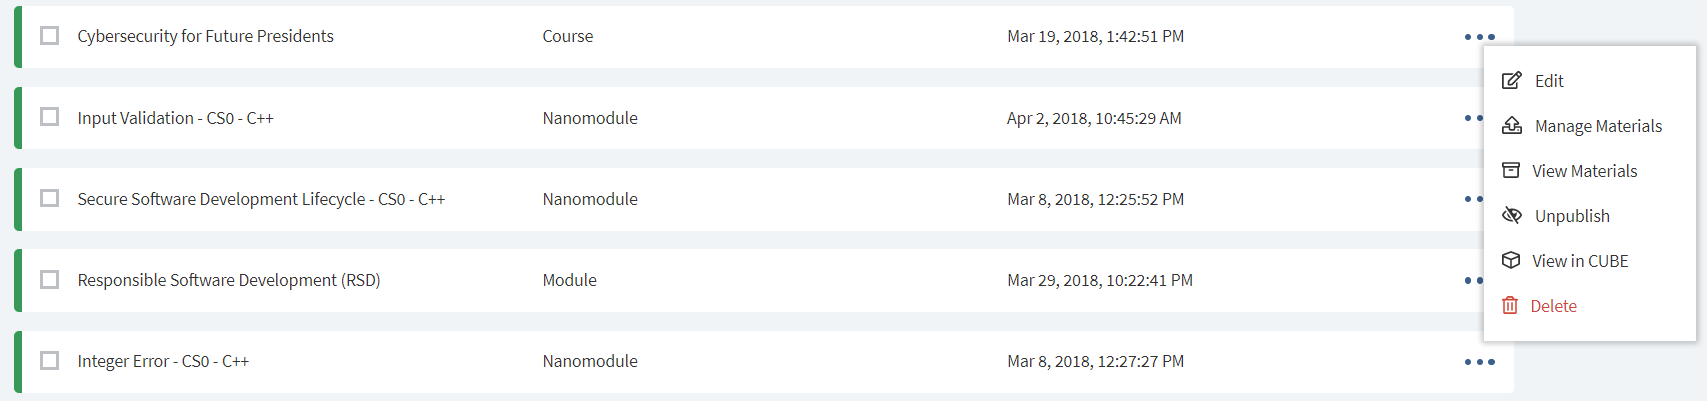
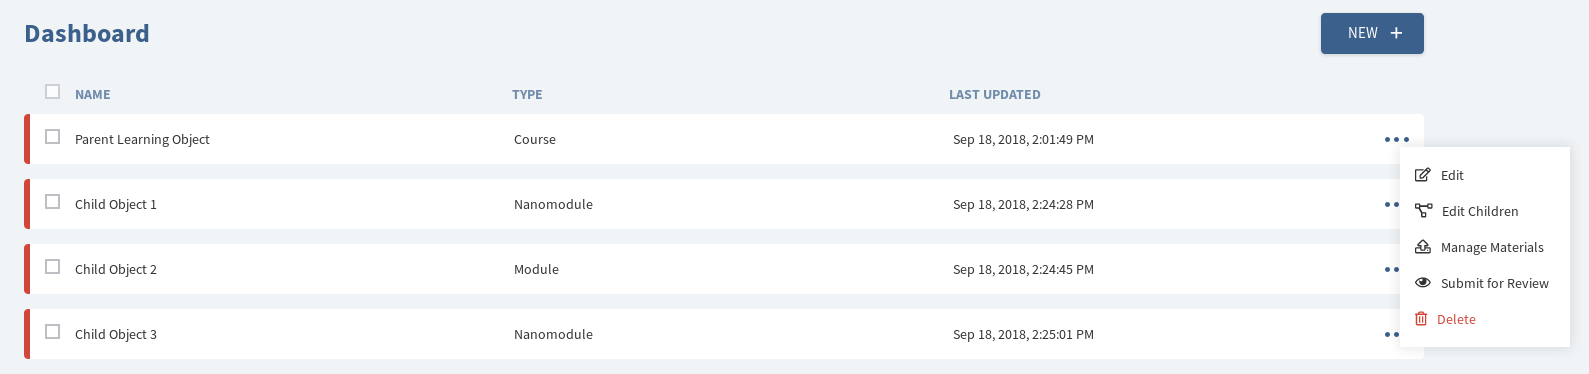
Added section for child learning objects

diff --git a/index.html b/index.html
@@ -31,6 +31,7 @@
 					<li><a href="#Outcomes" class="tableOfContents">Adding Learning Outcomes</a></li>
 					<li><a href="#Materials" class="tableOfContents">Uploading New Materials</a></li>
 					<li><a href="#Editing" class="tableOfContents">Editing Learning Objects</a></li>
+					<li><a href="#Children" class="tableOfContents">Adding Children Learning Objects</a></li>
 					<li><a href="#Unpublishing" class="tableOfContents">Unpublishing and Viewing Objects in the Cube</a></li>
 					<li><a href="#Deleting" class="tableOfContents">Deleting a Learning Object</a></li>
 					<li><a href="#Searching" class="tableOfContents">Searching for Learning Objects</a></li>
@@ -110,7 +111,7 @@
 		
 			<a name="Descriptions"><div class="section">
 				<h2>Adding Descriptions and Other Authors</h2>
-				<p>A description should accurately describe what you’re learning object is and briefly state what it hopes to accomplish. This is indexed for searches and shown on search results. Keep in mind that there is a section where you will write out the outcomes for your learning object in greater detail.</p>
+				<p>A description should accurately describe what you&#39;re learning object is and briefly state what it hopes to accomplish. This is indexed for searches and shown on search results. Keep in mind that there is a section where you will write out the outcomes for your learning object in greater detail.</p>
 				<center>
 					<img src="./Resources/CLARK-Adding-Authors.PNG" width="700px">
 				</center>
@@ -139,7 +140,7 @@
 				<p>Under <i>Notes</i> you can provide any copyright information or general notes about your files.</p>
 				<p style="padding-bottom: 20px;">Your files should automatically upload. There is no limit to the file sizes you can upload however, please be aware that the larger the file, the longer it will take to upload. Depending on how large the file, the server may timeout the request (these are for files cumulating larger than a few GB). To prevent this, it is advised you upload portions of your object at a time depending on file size. You can upload exercise solution files, but they will be identified and not distributed through CLARK. A content consumer will be provided your email to obtain solutions directly from you.</p>
 				<center>
-					<img src="./Resources/CLARK-Materials-Upload.png" width="700px">
+					<img src="./Resources/CLARK-Materials-Upload.png" width="960px">
 					<p style="padding-top: 20px;">You have now successfully created your first learning object!</p>
 				</center>
 			</div>
@@ -153,6 +154,17 @@
 					<img src="./Resources/CLARK-Editing-Options.png" width="960px">
 				</center>
 				<p style="padding-top: 20px;">From here, click the <i>Edit</i> option and you will be redirected to the learning object creation page. You can edit or change as much as you desire. Do not forget to save your object after you have made your changes.</p>
+			</div>
+			<br><br>
+
+			<a name="Children"><div class="section">
+				<h2>Adding Children Learning Objects</h2>
+				<p>When you upload a large learning object that uses many smaller objects in it, it is useful to add these objects as <i>children</i> to the larger one.  This is to help organize your larger learning objects and allow downloaders to easily find all the parts of your curriculum.</p>
+				<p>To start adding child objects go to your dashboard, click on the meatball menu of the parent object, and click the option that says <i>Edit Children.</i>  From here you have the option to choose which learning objects are the children at that object.  Note that the option to add children is available for all lengths of objects excluding nanomodules.  It is important to only add the direct children of the specific learning object you are working on.</p>
+				<center>
+					<img src="./Resources/CLARK-Child-Objects.png" width="960px">
+				</center>
+				<p>The image above is a good example of what to follow when creating the hierarchy for your learning objects.  You can edit an object&#39;s children at anytime, simply click on the meatball menu and reselect the children learning objects.</p>
 			</div>
 			<br><br>
 		
